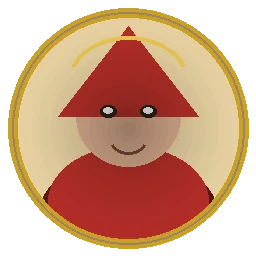
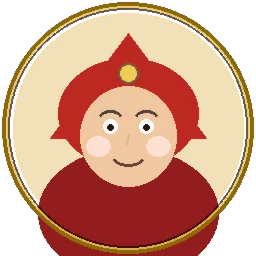
feat(g3d-judge): round-6 HUD ②③ quieter toolbar, wood-rim blend, portraits
- ② CameraToolbar dim until hover; smaller chrome; no wide labels
- ② Soften stage-wrap pit → shallow gold lip + wood vignette; fill 0.92
- ③ Larger left-rail illustrated portraits (PIL busts); LICENSES update
- ⑤ scripts/e2e-watchdog-8844.sh; judge-motion-capture for knife ④

diff --git a/src/creator/tidewell-game-screen.css b/src/creator/tidewell-game-screen.css
@@ -316,7 +316,7 @@ body:has(.room-view-tidewell-immersive) {
 .tidewell-player-card {
   position: relative;
   display: grid;
-  grid-template-columns: 44px 1fr;
+  grid-template-columns: 68px 1fr;
   gap: 8px;
   align-items: center;
   padding: 8px;
@@ -329,18 +329,23 @@ body:has(.room-view-tidewell-immersive) {
   background: #fff8e8;
 }
 .tidewell-player-avatar {
-  width: 40px;
-  height: 40px;
+  width: 64px;
+  height: 64px;
   border-radius: 50%;
   overflow: hidden;
-  border: 2px solid var(--seat-color, #888);
-  background: #ddd;
+  border: 3px solid var(--seat-color, #c9a227);
+  box-shadow:
+    0 0 0 1px rgba(26, 14, 8, 0.85),
+    0 2px 6px rgba(0, 0, 0, 0.35);
+  background: #c4a882;
+  flex-shrink: 0;
 }
 .tidewell-player-avatar img {
   display: block;
   width: 100%;
   height: 100%;
   object-fit: cover;
+  background: #e8d3a2;
 }
 .tidewell-seat-swatch {
   display: block;
@@ -516,13 +521,13 @@ body:has(.room-view-tidewell-immersive) {
 }
 .tidewell-player-stats { color: #d8c9a8 !important; }
 .tidewell-medallion {
-  width: 56px !important;
-  height: 56px !important;
+  width: 64px !important;
+  height: 64px !important;
   border-width: 3px !important;
   box-shadow: 0 0 0 2px #c9a227aa, 0 3px 8px rgba(0,0,0,0.45);
 }
 .tidewell-player-card {
-  grid-template-columns: 52px 1fr !important;
+  grid-template-columns: 68px 1fr !important;
   gap: 8px !important;
   padding: 6px 8px !important;
 }
@@ -725,15 +730,24 @@ body:has(.room-view-tidewell-immersive) {
   border-radius: 0;
   overflow: hidden;
   border: none;
-  /* ⑤ recessed board well — gold carved lip, sunk into the wooden crate */
+  /* round-6 ②：浅金唇贴木桌，去掉深井阴影，岛缘与木框相接 */
   box-shadow:
     inset 0 0 0 1px var(--tw-carve-outer, #1a0e08),
     inset 0 0 0 2px var(--tw-gold-deep, #8a6a14),
-    inset 0 0 0 3px var(--tw-gold-mid, #c9a227),
-    inset 0 0 0 4px rgba(232, 200, 90, 0.4),
-    inset 0 0 22px rgba(0, 0, 0, 0.55),
-    inset 0 8px 18px rgba(0, 0, 0, 0.35);
-  background: radial-gradient(ellipse at 50% 30%, #3a9aaa 0%, var(--tw-sea, #2e7f86) 45%, #1a4f5a 100%);
+    inset 0 0 0 3px rgba(232, 200, 90, 0.45),
+    inset 0 0 10px rgba(0, 0, 0, 0.18);
+  background: radial-gradient(ellipse at 50% 35%, #4a9eaa 0%, var(--tw-sea, #2e7f86) 48%, #1f4550 100%);
+}
+/* wood→sea soft blend ring (DOM overlay, pointer-events none) */
+.tidewell-stage-wrap::after {
+  content: "";
+  position: absolute;
+  inset: 0;
+  pointer-events: none;
+  z-index: 1;
+  box-shadow:
+    inset 0 0 28px 10px rgba(42, 24, 12, 0.55),
+    inset 0 0 8px 2px rgba(201, 162, 39, 0.18);
 }
 .tidewell-game-screen .g3d-stage {
   position: absolute !important;
@@ -760,6 +774,19 @@ body:has(.room-view-tidewell-immersive) {
   display: block !important;
   width: 100% !important;
   height: 100% !important;
+  position: relative;
+  z-index: 0;
+}
+.tidewell-game-screen .g3d-camera-toolbar,
+.tidewell-game-screen [data-testid="g3d-camera-toolbar"] {
+  z-index: 2 !important;
+}
+.tidewell-game-screen [data-testid="g3d-camera-toolbar"]:hover,
+.tidewell-game-screen [data-testid="g3d-camera-toolbar"]:focus-within {
+  opacity: 0.92 !important;
+  background: linear-gradient(180deg, rgb(90 58 34 / 82%) 0%, rgb(52 32 18 / 88%) 100%) !important;
+  box-shadow: 0 2px 8px rgb(0 0 0 / 35%) !important;
+  color: #f3e4c1 !important;
 }
 
 .tidewell-turn-panel { display: flex; flex-direction: column; gap: 8px; }

diff --git a/src/render3d/overlay/CameraToolbar.tsx b/src/render3d/overlay/CameraToolbar.tsx
@@ -12,36 +12,39 @@ const WOOD = "linear-gradient(180deg, #6b4428 0%, #4e301b 55%, #3f2615 100%)";
 const PARCHMENT = "#f3e4c1";
 const BRASS = "#c9a25a";
 
+/** round-6 ②：默认半透明、小尺寸，悬停/焦点才醒目，不抢岛。 */
 const barStyle: CSSProperties = {
   position: "absolute",
-  top: 10,
-  left: 10,
+  top: 8,
+  left: 8,
   zIndex: 2,
   display: "flex",
   alignItems: "center",
-  gap: 4,
-  padding: "4px 6px",
-  borderRadius: 10,
-  background: WOOD,
-  border: `1px solid ${BRASS}`,
-  boxShadow: "0 2px 6px rgb(0 0 0 / 35%), inset 0 1px 0 rgb(255 255 255 / 14%)",
-  color: PARCHMENT,
-  font: "600 12px/1 system-ui, -apple-system, 'PingFang SC', sans-serif",
+  gap: 2,
+  padding: "3px 5px",
+  borderRadius: 8,
+  background: "linear-gradient(180deg, rgb(80 52 32 / 55%) 0%, rgb(48 30 18 / 62%) 100%)",
+  border: "1px solid rgb(201 162 90 / 35%)",
+  boxShadow: "0 1px 3px rgb(0 0 0 / 22%)",
+  color: "rgb(243 228 193 / 78%)",
+  font: "600 11px/1 system-ui, -apple-system, 'PingFang SC', sans-serif",
   userSelect: "none",
   touchAction: "manipulation",
+  opacity: 0.42,
+  transition: "opacity 160ms ease, background 160ms ease, box-shadow 160ms ease",
 };
 
 const buttonStyle: CSSProperties = {
   display: "inline-flex",
   alignItems: "center",
   justifyContent: "center",
-  width: 28,
-  height: 28,
+  width: 24,
+  height: 24,
   padding: 0,
-  borderRadius: 7,
-  border: "1px solid rgb(201 162 90 / 55%)",
-  background: "rgb(243 228 193 / 10%)",
-  color: PARCHMENT,
+  borderRadius: 6,
+  border: "1px solid rgb(201 162 90 / 40%)",
+  background: "rgb(243 228 193 / 8%)",
+  color: "inherit",
   cursor: "pointer",
 };
 
@@ -140,7 +143,7 @@ export function CameraToolbar({
   useEffect(() => api.subscribe(setState), [api]);
   const percent = state.zoomPercent;
   return (
-    <div aria-label={copy.toolbar} data-testid="g3d-camera-toolbar" role="toolbar" style={barStyle}>
+    <div aria-label={copy.toolbar} className="g3d-camera-toolbar" data-testid="g3d-camera-toolbar" role="toolbar" style={barStyle}>
       <button aria-label={copy.zoomOut} onClick={() => api.zoomOut()} style={buttonStyle} title={copy.zoomOut} type="button">
         {ICONS.zoomOut}
       </button>
@@ -150,7 +153,7 @@ export function CameraToolbar({
         min={Math.round(state.minZoom * 100)}
         onChange={(event) => api.setZoom(Number(event.currentTarget.value) / 100)}
         step={5}
-        style={{ width: 84, accentColor: BRASS, cursor: "pointer" }}
+        style={{ width: 56, accentColor: BRASS, cursor: "pointer", opacity: 0.85 }}
         type="range"
         value={percent}
       />}
@@ -181,7 +184,7 @@ export function CameraToolbar({
       </button>
       <button aria-label={copy.harbors} onClick={() => api.showHarbors()} style={compact ? buttonStyle : wideButtonStyle} title={copy.harbors} type="button">
         {ICONS.harbors}
-        {!compact && <span>{copy.harbors}</span>}
+        {false && <span>{copy.harbors}</span>}
       </button>
       <button
         aria-label={copy.tour}
@@ -192,7 +195,7 @@ export function CameraToolbar({
         type="button"
       >
         {ICONS.tour}
-        {!compact && <span>{copy.tour}</span>}
+        {false && <span>{copy.tour}</span>}
       </button>
     </div>
   );

diff --git a/src/render3d/viewport-frame.ts b/src/render3d/viewport-frame.ts
@@ -18,8 +18,8 @@ export type ViewportFrame = {
 /** Desktop a/d: island ~78–85% of canvas height, sea margins OK left/right. */
 export const DEFAULT_DESKTOP_FRAME: Required<ViewportFrame> = {
   // round-5d：岛更高占比，减弱「窗框」留白（更近机位 + 略顶视）。
-  fill: 0.9,
-  polarDeg: 38,
+  fill: 0.92,
+  polarDeg: 37,
   azimuthDeg: 14,
   fovDeg: 40,
 };
@@ -50,7 +50,7 @@ export function distanceForIslandFill(
   const f = Math.max(0.55, Math.min(0.95, fill));
   const polar = (polarDeg * Math.PI) / 180;
   // Empirical foreshorten so landscape a-default lands ~80% height (not ~70%).
-  const foreshorten = Math.max(0.38, 0.18 + Math.cos(polar) * 0.38);
+  const foreshorten = Math.max(0.36, 0.16 + Math.cos(polar) * 0.36);
   const projectedHalf = radius * foreshorten;
   const byHeight = projectedHalf / (f * Math.tan(halfV));
   if (aspect >= 1) {

diff --git a/src/render3d/viewport-frame.test.ts b/src/render3d/viewport-frame.test.ts
@@ -20,14 +20,14 @@ describe("viewport-frame", () => {
 
   it("desktop distance is close enough for ~90% height fill", () => {
     // Stage-ish aspect after thinner side rails (~960×684 → ~1.4)
-    const d = distanceForIslandFill(4.5, 1.4, 0.9, 40, 38);
+    const d = distanceForIslandFill(4.5, 1.4, 0.92, 40, 37);
     // round-4 was ~8 with fill 0.82; 5d should be clearly closer.
-    expect(d).toBeLessThan(7.2);
+    expect(d).toBeLessThan(7.0);
     expect(d).toBeGreaterThan(5.0);
   });
 
   it("framePose returns orbit above the island centre", () => {
-    const pose = framePose([0, 0, 0], 4.5, 1.6, { fill: 0.9, polarDeg: 38 });
+    const pose = framePose([0, 0, 0], 4.5, 1.6, { fill: 0.92, polarDeg: 37 });
     expect(pose.position[1]).toBeGreaterThan(2);
     expect(pose.distance).toBeGreaterThan(3);
   });

diff --git a/src/creator/HexSettlementBoard.tsx b/src/creator/HexSettlementBoard.tsx
@@ -708,7 +708,14 @@ export function HexSettlementBoard({
                 >
                   <div className="tidewell-player-avatar tidewell-medallion">
                     {seatMarkUrl(seat) ? (
-                      <img alt="" height={56} src={seatMarkUrl(seat)} width={56} />
+                      <img
+                        alt=""
+                        className="tidewell-portrait-img"
+                        decoding="async"
+                        height={64}
+                        src={seatMarkUrl(seat)}
+                        width={64}
+                      />
                     ) : (
                       <span aria-hidden="true" className="tidewell-seat-swatch" />
                     )}

diff --git a/assets/LICENSES.md b/assets/LICENSES.md
@@ -165,10 +165,10 @@
 | ui/ai/icons/build-city | assets/ui/ai/icons/build-city-{64,96}.webp | HUD 建造砖·港镇图标 | 自制 | assets/ui/ai/icons/build-city-96.webp | LicenseRef-GoDesk-Original | GoDesk Track B（程序化 PIL） | 2026-10-06 | 否 | 木纹底 + 几何双楼示意，非 settlecoast 复制 | G3D-JUDGE-HUD-2h3 |
 | ui/ai/icons/build-card | assets/ui/ai/icons/build-card-{64,96}.webp | HUD 建造砖·买卡图标 | 自制 | assets/ui/ai/icons/build-card-96.webp | LicenseRef-GoDesk-Original | GoDesk Track B（程序化 PIL） | 2026-10-06 | 否 | 木纹底 + 几何卷轴示意，非 settlecoast 复制 | G3D-JUDGE-HUD-2h3 |
 
-| illustration/portrait-0 | assets/illustrations/brand/portrait-0{,-128}.webp | HUD 玩家肖像章·赤席 | 自制 | assets/illustrations/brand/portrait-0.webp | LicenseRef-GoDesk-Original | GoDesk Track B（程序化 PIL 手绘风兜帽肖像） | 2026-10-06 | 否 | 圆形羊皮纸底 + 席位色兜帽，非 settlecoast 复制 | G3D-JUDGE-HUD-2h4 |
-| illustration/portrait-1 | assets/illustrations/brand/portrait-1{,-128}.webp | HUD 玩家肖像章·蓝席 | 自制 | assets/illustrations/brand/portrait-1.webp | LicenseRef-GoDesk-Original | GoDesk Track B（程序化 PIL） | 2026-10-06 | 否 | 同上，蓝席 | G3D-JUDGE-HUD-2h4 |
-| illustration/portrait-2 | assets/illustrations/brand/portrait-2{,-128}.webp | HUD 玩家肖像章·翠席 | 自制 | assets/illustrations/brand/portrait-2.webp | LicenseRef-GoDesk-Original | GoDesk Track B（程序化 PIL） | 2026-10-06 | 否 | 同上，翠席 | G3D-JUDGE-HUD-2h4 |
-| illustration/portrait-3 | assets/illustrations/brand/portrait-3{,-128}.webp | HUD 玩家肖像章·金席 | 自制 | assets/illustrations/brand/portrait-3.webp | LicenseRef-GoDesk-Original | GoDesk Track B（程序化 PIL） | 2026-10-06 | 否 | 同上，金席 | G3D-JUDGE-HUD-2h4 |
+| illustration/portrait-0 | assets/illustrations/brand/portrait-0{,-128}.webp | HUD 玩家肖像章·赤席 | 自制 | assets/illustrations/brand/portrait-0.webp | LicenseRef-GoDesk-Original | GoDesk Track HUD（PIL 手绘风半身肖像 round-6 ③） | 2026-10-07 | 否 | 圆形羊皮纸底 + 席位色兜帽半身像；非 settlecoast 复制；非商用第三方 | G3D-JUDGE-R6-HUD |
+| illustration/portrait-1 | assets/illustrations/brand/portrait-1{,-128}.webp | HUD 玩家肖像章·蓝席 | 自制 | assets/illustrations/brand/portrait-1.webp | LicenseRef-GoDesk-Original | GoDesk Track HUD（PIL 手绘风半身肖像 round-6 ③） | 2026-10-07 | 否 | 圆形羊皮纸底 + 席位色兜帽半身像；非 settlecoast 复制；非商用第三方 | G3D-JUDGE-R6-HUD |
+| illustration/portrait-2 | assets/illustrations/brand/portrait-2{,-128}.webp | HUD 玩家肖像章·翠席 | 自制 | assets/illustrations/brand/portrait-2.webp | LicenseRef-GoDesk-Original | GoDesk Track HUD（PIL 手绘风半身肖像 round-6 ③） | 2026-10-07 | 否 | 圆形羊皮纸底 + 席位色兜帽半身像；非 settlecoast 复制；非商用第三方 | G3D-JUDGE-R6-HUD |
+| illustration/portrait-3 | assets/illustrations/brand/portrait-3{,-128}.webp | HUD 玩家肖像章·金席 | 自制 | assets/illustrations/brand/portrait-3.webp | LicenseRef-GoDesk-Original | GoDesk Track HUD（PIL 手绘风半身肖像 round-6 ③） | 2026-10-07 | 否 | 圆形羊皮纸底 + 席位色兜帽半身像；非 settlecoast 复制；非商用第三方 | G3D-JUDGE-R6-HUD |
 | ui/ai/icons/build-road-128 | assets/ui/ai/icons/build-road-{64,96,128}.webp | HUD 建造砖·栈道（2h4 插画） | 自制 | assets/ui/ai/icons/build-road-128.webp | LicenseRef-GoDesk-Original | GoDesk Track B（程序化 PIL 木框插画） | 2026-10-06 | 是 | 木框+羊皮纸板+栈道示意；替换 2h3 几何图标 | G3D-JUDGE-HUD-2h4 |
 | ui/ai/icons/build-settlement-128 | assets/ui/ai/icons/build-settlement-{64,96,128}.webp | HUD 建造砖·渔村（2h4） | 自制 | assets/ui/ai/icons/build-settlement-128.webp | LicenseRef-GoDesk-Original | GoDesk Track B（程序化 PIL） | 2026-10-06 | 是 | 木框小屋插画 | G3D-JUDGE-HUD-2h4 |
 | ui/ai/icons/build-city-128 | assets/ui/ai/icons/build-city-{64,96,128}.webp | HUD 建造砖·港镇（2h4） | 自制 | assets/ui/ai/icons/build-city-128.webp | LicenseRef-GoDesk-Original | GoDesk Track B（程序化 PIL） | 2026-10-06 | 是 | 木框双楼插画 | G3D-JUDGE-HUD-2h4 |
